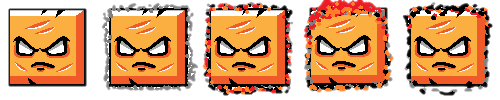
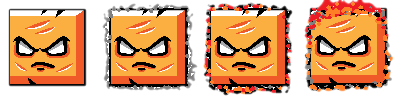
step sound added, spear added, more complicated anim for second enemy added, collides fixed

diff --git a/gleb's level/Objects.py b/gleb's level/Objects.py
@@ -1,14 +1,13 @@
 import pygame
 import random
-from constants import speed, width_obstacle, height_obstacle, width_obstacle_2, height_obstacle_2
 from SettingsGame import all_sprites, border_sprite, player_sprite, speed_score
 from OddFunctions import load_image
 clock = pygame.time.Clock()
 
 
 class ObstacleMain(pygame.sprite.Sprite):
-    def __init__(self, group, width, height, x, y, sheet, columns, rows):
-        self.speed = speed
+    def __init__(self, group, x, y, sheet, columns, rows):
+        self.speed = speed_score.speed
         self.count_time = 0
         self.frames = []
         self.cut_sheet(sheet, columns, rows)
@@ -16,6 +15,10 @@ class ObstacleMain(pygame.sprite.Sprite):
         self.image = self.frames[self.cur_frame]
         self.mask = pygame.mask.from_surface(self.image)
         self.rect = self.rect.move(x, y)
+        self.width = self.image.get_size()[0]
+        for i in all_sprites:
+            while pygame.sprite.collide_mask(self, i):
+                self.rect.x += 10
         super().__init__(group)
 
     def cut_sheet(self, sheet, columns, rows):
@@ -33,9 +36,8 @@ class ObstacleMain(pygame.sprite.Sprite):
             self.image = self.frames[self.cur_frame]
             self.mask = pygame.mask.from_surface(self.image)
         self.count_time += 1
-        global speed_score
         self.rect = self.rect.move(-self.speed, 0)
-        if self.rect.x < -width_obstacle:
+        if self.rect.x < -self.width:
             self.remove(all_sprites)
             speed_score.score += 10
         self.speed = speed_score.speed
@@ -48,23 +50,30 @@ class ObstacleMain(pygame.sprite.Sprite):
 class Obstacle_4(ObstacleMain):
     def __init__(self, x, y):
         y = 440
-        super().__init__(all_sprites, width_obstacle, height_obstacle, x, y, load_image(r'Obstacles\4.png'), 1, 1)
+        super().__init__(all_sprites, x, y, load_image(r'Obstacles\4.png'), 1, 1)
 
     def property(self):
-        pass
+        self.random_shoot_coord = random.randint(250, 400)
+        if self.rect.x > self.random_shoot_coord:
+            self.shoot = False
+        if self.rect.x <= self.random_shoot_coord and not self.shoot:
+            Spear(self.rect.x, self.rect.y)
+            self.shoot = True
 
 
 class Obstacle_2(ObstacleMain):
     def __init__(self, x, y):
-        super().__init__(all_sprites, width_obstacle, height_obstacle, x, y, load_image(r'Obstacles\2.png'), 5, 1)
+        super().__init__(all_sprites, x, y, load_image(r'Obstacles\2.png'), 4, 1)
 
     def property(self):
-        pass
+        if len(self.frames) < 6:
+            self.frames.append(load_image(r'Obstacles\22.png'))
+            self.frames.append(load_image(r'Obstacles\23.png'))
 
 
 class Obstacle_3(ObstacleMain):
     def __init__(self, x, y):
-        super().__init__(all_sprites, width_obstacle, height_obstacle, x, y, load_image(r'Obstacles\3.png'), 5, 1)
+        super().__init__(all_sprites, x, y, load_image(r'Obstacles\3.png'), 5, 1)
 
     def property(self):
         self.rect = self.rect.move(-10, 0)
@@ -72,7 +81,7 @@ class Obstacle_3(ObstacleMain):
 
 class Obstacle(ObstacleMain):
     def __init__(self, x, y):
-        super().__init__(all_sprites, width_obstacle, height_obstacle, x, y, load_image(r'Obstacles\1.png'), 5, 1)
+        super().__init__(all_sprites, x, y, load_image(r'Obstacles\1.png'), 5, 1)
 
     def property(self):
         pass
@@ -83,3 +92,19 @@ class Border(pygame.sprite.Sprite):
         super().__init__(border_sprite)
         self.image = pygame.Surface([0, 480])
         self.rect = pygame.Rect(0, 490, 800, 100)
+
+
+class Spear(pygame.sprite.Sprite):
+    def __init__(self, x, y):
+        super().__init__(all_sprites)
+        self.image = load_image('spear.png')
+        self.rect = self.image.get_rect()
+        self.rect = self.rect.move(x, y)
+        self.speed_y = 1
+
+    def update(self, *args):
+        self.rect.x -= speed_score.speed + speed_score.speed // 2
+        if self.speed_y >= 0:
+            self.rect.y -= (self.speed_y ** 3)
+        else:
+            self.rect.y += (self.speed_y ** 2)

diff --git a/gleb's level/main.py b/gleb's level/main.py
@@ -7,11 +7,13 @@ from OddFunctions import terminate, load_image
 
 
 pygame.init()
+pygame.mixer.init()
 
 fps = 20
 clock = pygame.time.Clock()
 speed_koef = 50
 count_obstacles_onlevel = 3
+# jump = pygame.mixer.music.load('data/level_audio.wav')
 multiple_speed = True
 progress = 0
 
@@ -46,6 +48,9 @@ def level():
                 terminate()
 
         if pygame.key.get_pressed()[273]:
+            # pygame.mixer.music.load('data/jump.wav')
+            # pygame.mixer.music.play()
+            # pygame.mixer.Sound('data/jump.wav').play()
             player.jump = True
             player.speed = 3
 
@@ -134,7 +139,6 @@ def start_screen():
             if event.type == pygame.QUIT:
                 terminate()
             elif event.type == pygame.KEYDOWN or event.type == pygame.MOUSEBUTTONDOWN:
-                pygame.mixer.init()
                 pygame.mixer.Sound('data/level_audio.wav').play()
                 level()  # начинаем игру
         pygame.display.flip()

diff --git a/gleb's level/Player.py b/gleb's level/Player.py
@@ -41,6 +41,7 @@ class Player(pygame.sprite.Sprite):
         if not self.jump:
             self.cur_frame = (self.cur_frame + 1) % len(self.walk)
             self.image = self.walk[self.cur_frame]
+            pygame.mixer.Sound('data/step.wav').play()
         if self.jump:
             if self.speed >= 0:
                 self.rect.y -= (self.speed ** 3)
